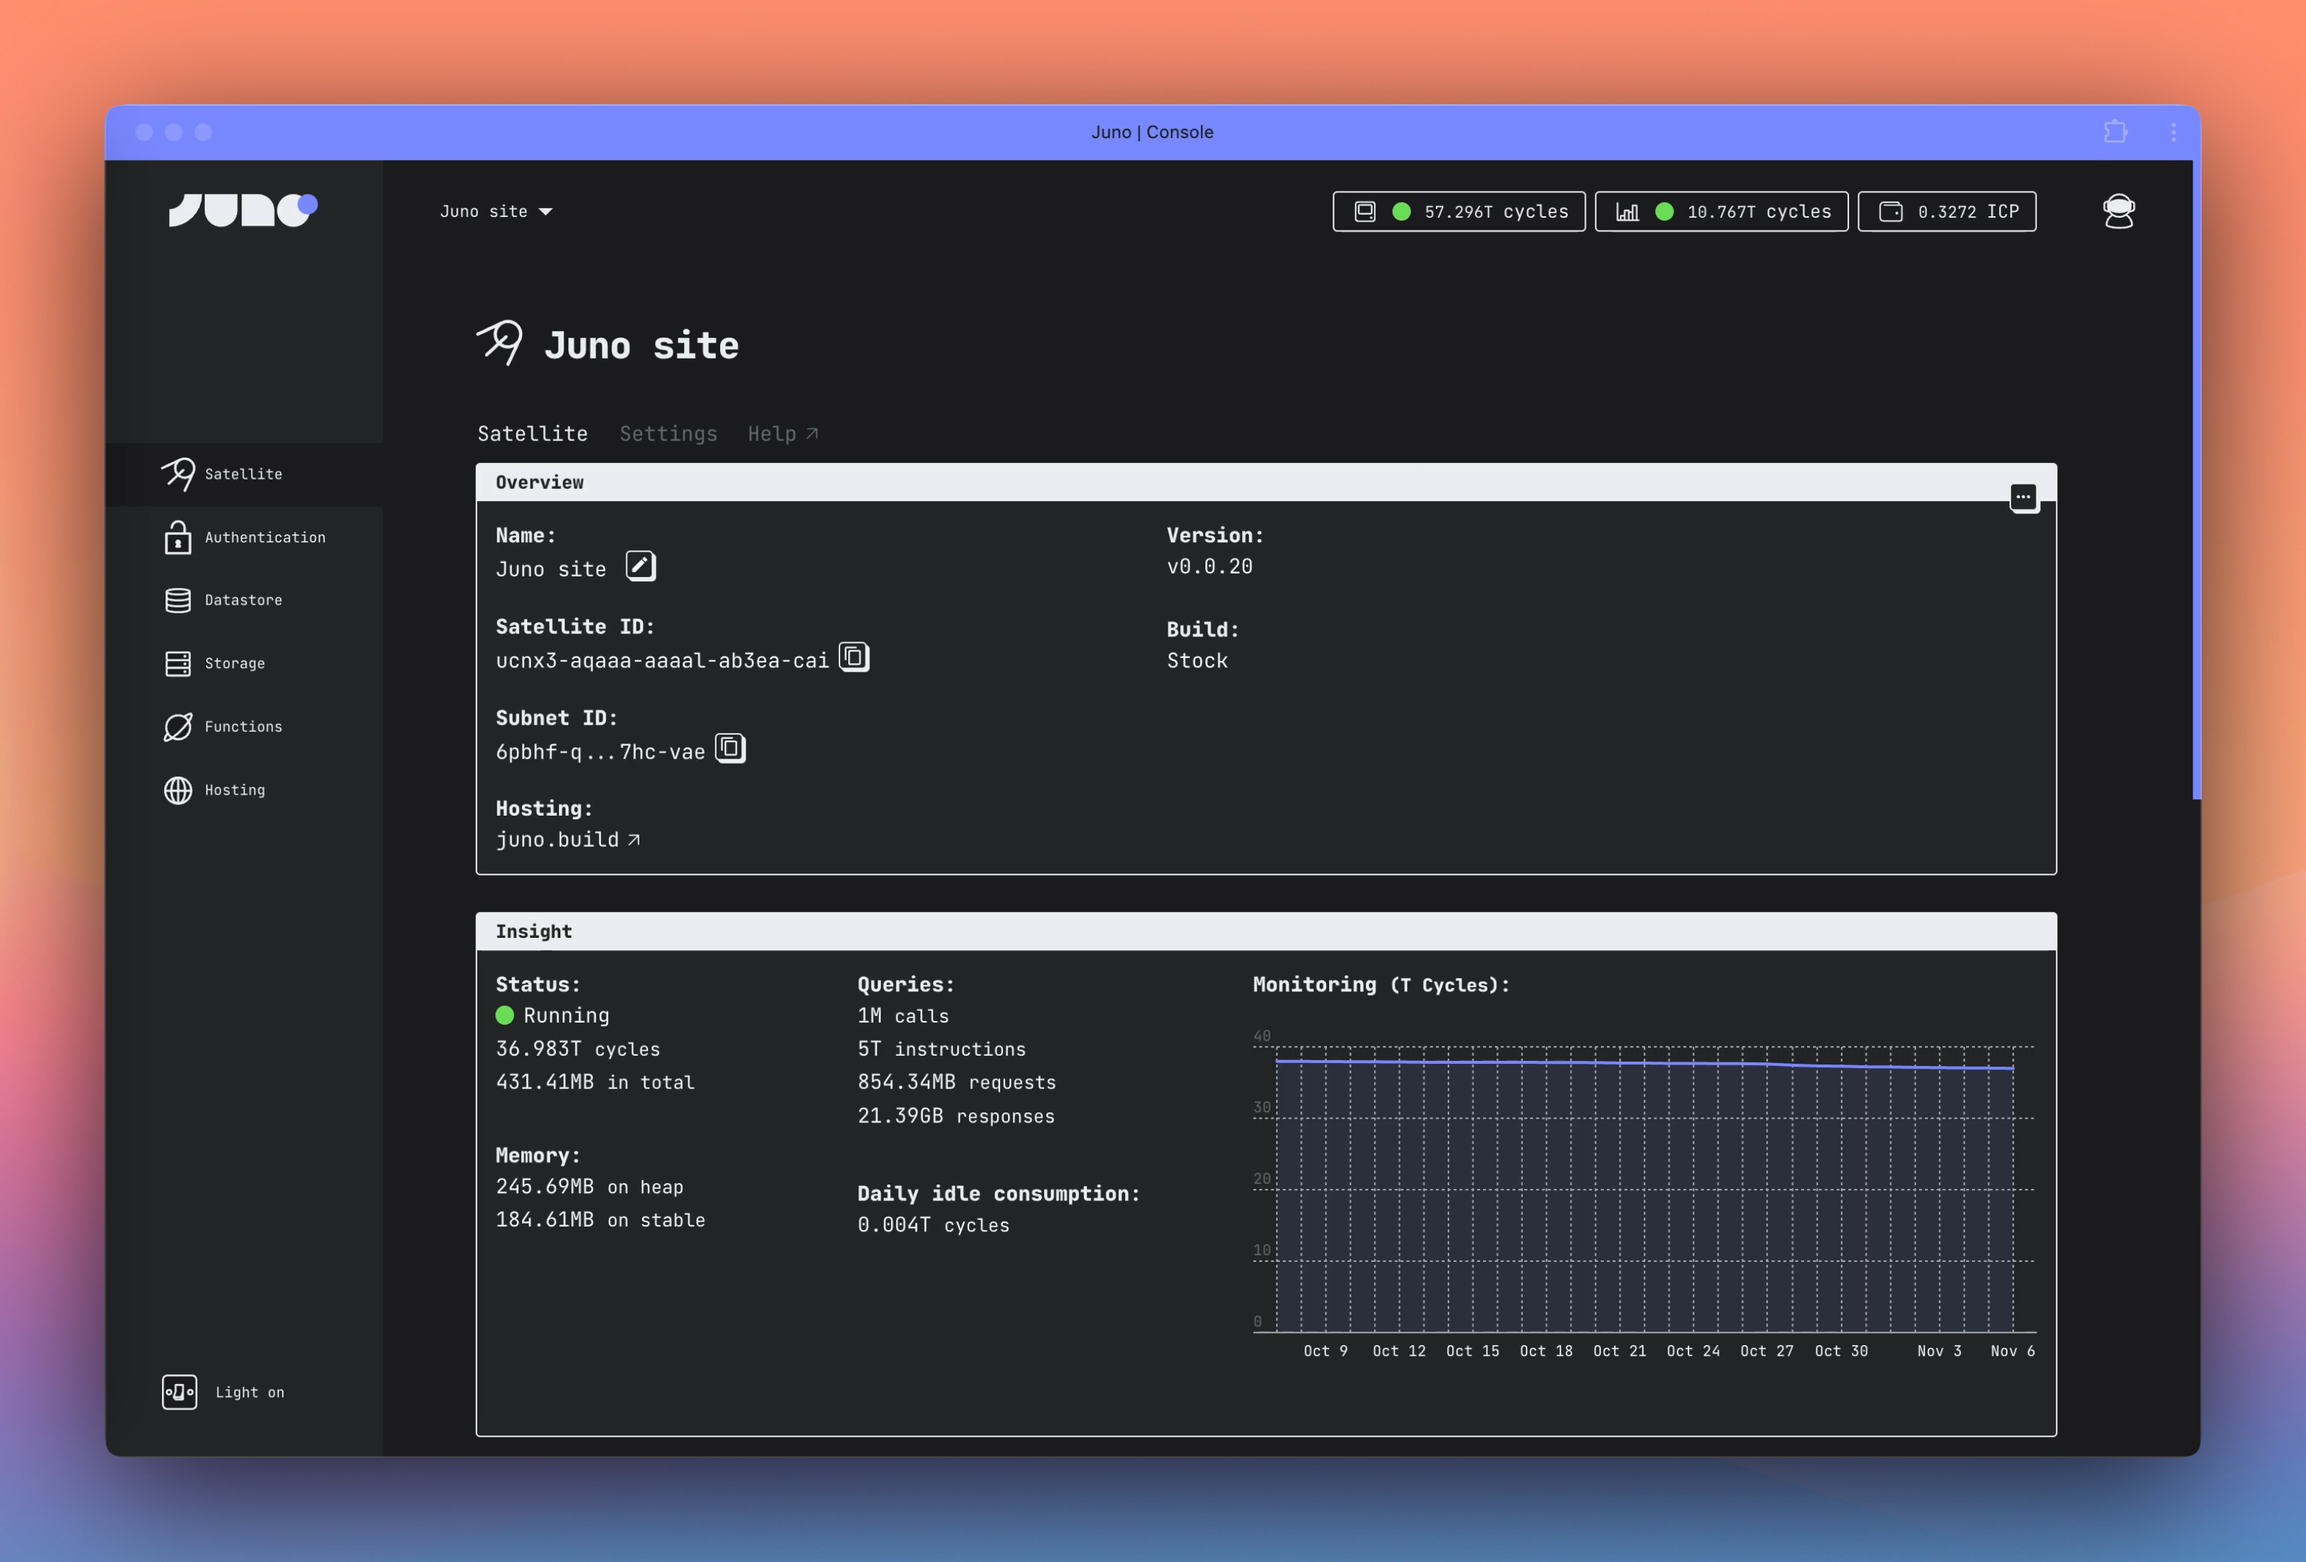
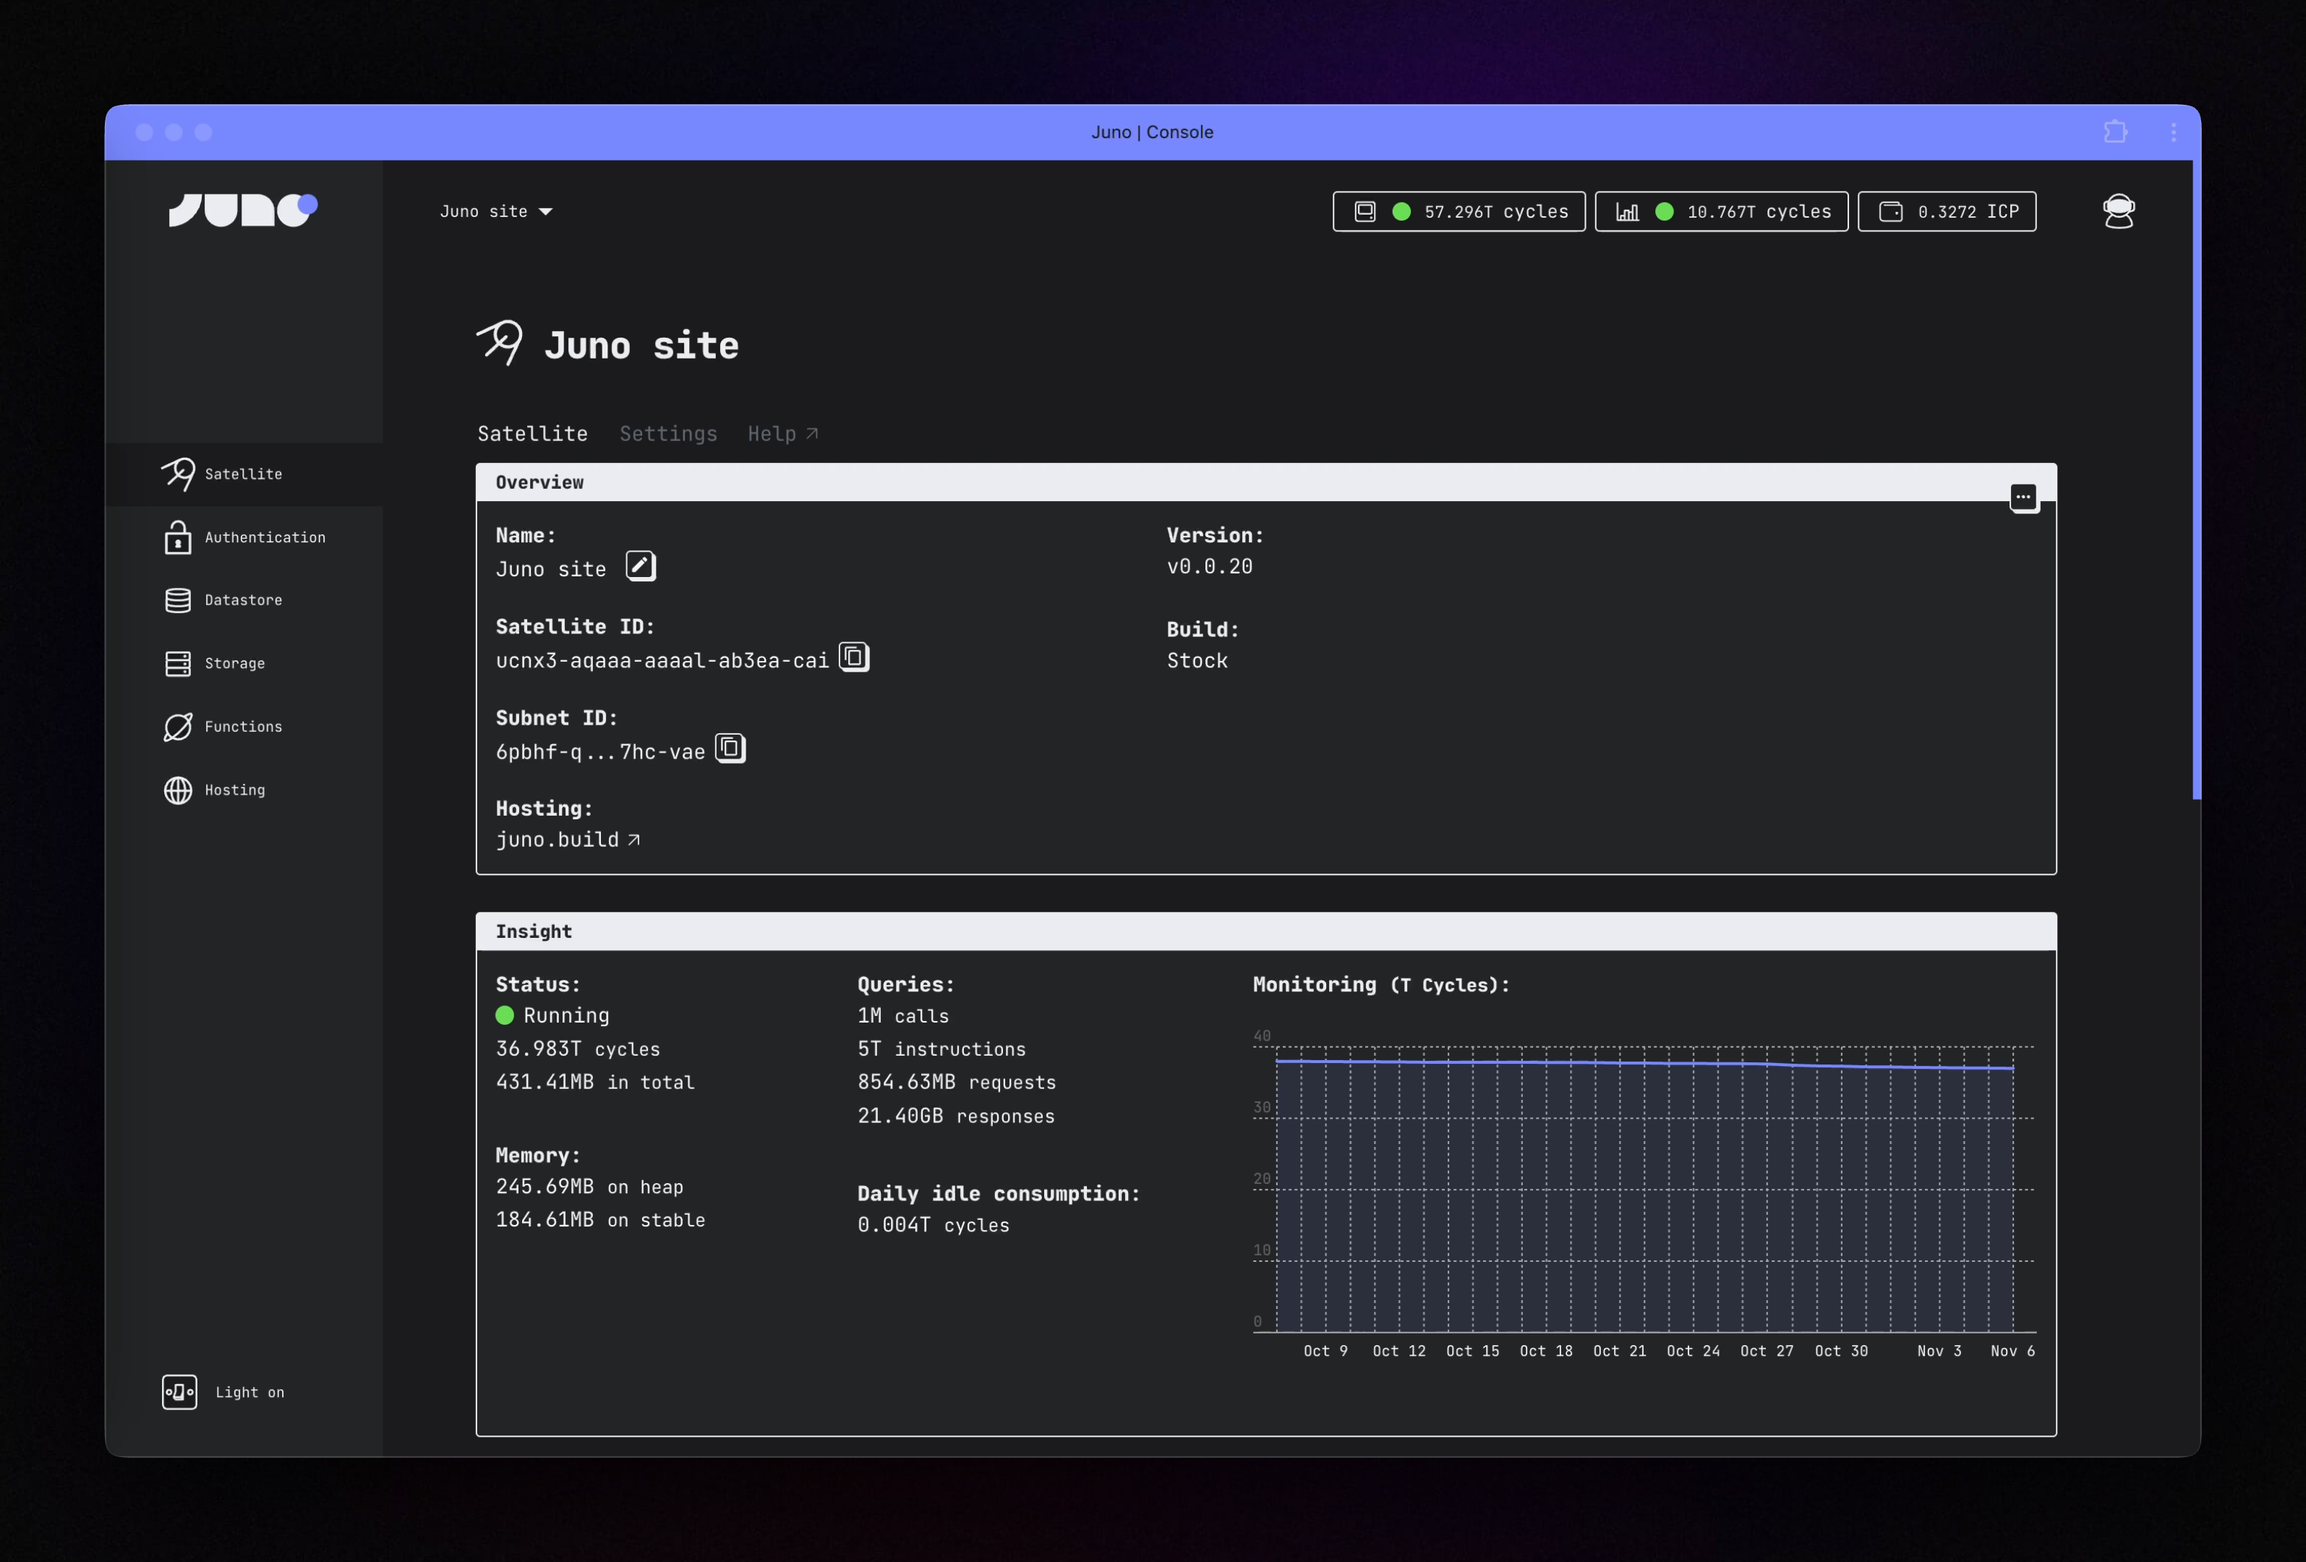
docs: darker background for screenshot and spacing

Changed region(s): [[0.0, 0.0, 1.0, 1.0]]

diff --git a/README.md b/README.md
@@ -21,7 +21,11 @@
 - ⚙ Functions [[Docs](https://juno.build/docs/build/functions)]
 - 📊 Analytics [[Docs](https://juno.build/docs/build/analytics)]
 
-![A screenshot of the Juno Console](https://github.com/junobuild/juno/raw/main/src/frontend/static/images/console_screenshot.png)
+<br />
+
+![A screenshot of the Juno Console](./src/frontend/static/images/console_screenshot.png)
+
+<br />
 
 ## 🚀 Introduction
 
